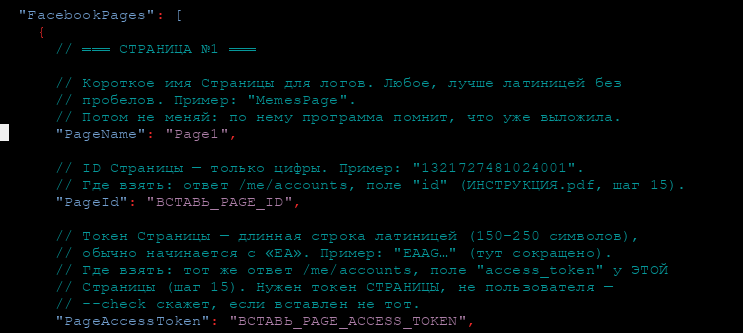
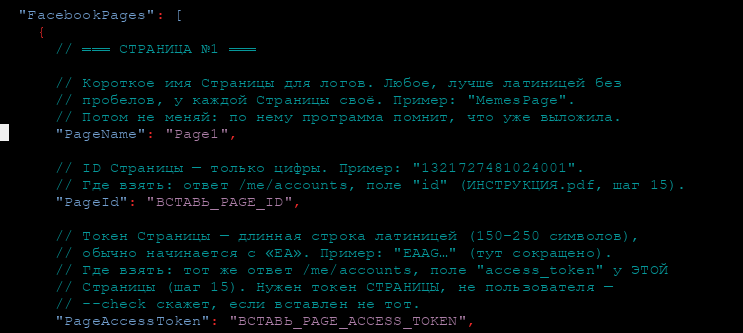
Несколько Страниц: одинаковое имя — ошибка, --check без авторов-примеров
Сценарий из шаблона — заполнена только первая Страница, вторая с
заглушками, дальше блоки копируются — проверен вживую. Две шероховатости:
- скопированный блок с тем же PageName молча делил бы с оригиналом суточный
  счётчик и историю; теперь программа останавливается с понятной ошибкой;
- --check проверял и ники-примеры из незаполненной второй Страницы; теперь
  только авторов Страниц, которые будут публиковать.
В шаблоне подсказано, что менять в копии блока; снимки для PDF пересобраны.

Claude-Session: https://claude.ai/code/session_01FnRtQCAVorSgYPbzA53L1c

Changed region(s): [[0.2167, 0.2703, 0.4953, 0.3303], [0.6191, 0.2703, 0.7429, 0.3303], [0.5262, 0.2703, 0.6191, 0.3303]]

diff --git a/Program.cs b/Program.cs
@@ -49,6 +49,24 @@ namespace FacebookReelsPublisher
             // как «аккаунта нет» — то есть как чужая поломка.
             NormalizeTikTokUsernames(pages);
 
+            // Имя Страницы — ключ её истории и суточного счётчика. Две рабочие
+            // Страницы с одним именем (обычная ошибка при копировании блока в
+            // appsettings.json) делили бы лимит на двоих, а общего автора
+            // публиковала бы только первая — и ничто в логе на это не указало бы.
+            // Проверка стоит до --check, чтобы он первым о ней и сказал.
+            var duplicate = pages
+                .Where(p => p.NotReadyReason == null)
+                .GroupBy(p => p.PageName.Trim(), StringComparer.OrdinalIgnoreCase)
+                .FirstOrDefault(g => g.Count() > 1);
+            if (duplicate != null)
+            {
+                AnsiConsole.MarkupLine($"[red]❌ В appsettings.json у двух Страниц одинаковое имя PageName: «{Esc(duplicate.Key)}».[/]");
+                AnsiConsole.MarkupLine("[yellow]   У каждой Страницы должно быть своё имя — по нему программа помнит, что уже выложила.\n" +
+                                       "   Поменяй его в скопированном блоке и пересобери: docker compose up -d --build[/]");
+                Environment.ExitCode = 1;
+                return;
+            }
+
             var server = new ServerSettings();
             config.GetSection("Server").Bind(server);
 
@@ -274,12 +292,26 @@ namespace FacebookReelsPublisher
             AnsiConsole.Write(fbTable);
 
             // ── TikTok ───────────────────────────────────────────────────────
+            // Авторов выключенных Страниц не проверяем: в шаблоне у второй
+            // Страницы стоят ники-примеры, и заполнивший только первую видел бы
+            // в таблице чужие ники. Не готова ни одна Страница — проверяем
+            // всех, чтобы ленты можно было проверить ещё до токенов.
+            var ready = pages.Where(p => p.NotReadyReason == null).ToList();
+            var skipped = ready.Count > 0 && names.Length == 0
+                ? pages.Where(p => p.NotReadyReason != null && p.TikTokUsernames.Count > 0).ToList()
+                : new List<FacebookPageSettings>();
+
             var targets = (names.Length > 0
                     ? names.Select(TikTokMonitorService.NormalizeUsername)
-                    : pages.SelectMany(p => p.TikTokUsernames))
+                    : (ready.Count > 0 ? ready : pages).SelectMany(p => p.TikTokUsernames))
                 .Where(n => n.Length > 0)
                 .Distinct(StringComparer.OrdinalIgnoreCase)
                 .ToList();
+
+            if (skipped.Count > 0)
+            {
+                AnsiConsole.MarkupLine($"\n[grey]Авторов выключенных Страниц не проверяем: {Esc(string.Join(", ", skipped.Select(p => p.PageName)))}[/]");
+            }
 
             if (targets.Count == 0)
             {

diff --git a/CLAUDE.md b/CLAUDE.md
@@ -208,7 +208,18 @@ preset medium таймаут 180 с всё ещё задевает. За 19–25
 первая, с заглушками. Теперь `FacebookPageSettings.NotReadyReason`: пусто или
 начинается с «ВСТАВЬ» (в `PageAccessToken` или `PageId`) — Страница пропускается
 с серым «не вставлен токен…». Не проверять токен на `IsNullOrEmpty` в обход этого
-свойства — вернётся ошибка авторизации каждые пять минут.
+свойства — вернётся ошибка авторизации каждые пять минут. `--check` не
+проверяет авторов выключенных Страниц (в шаблоне у второй — ники-примеры),
+если готова хоть одна.
+
+### Одинаковый `PageName` у двух Страниц
+
+Имя Страницы — ключ истории (`ИмяСтраницы:автор`) и суточного счётчика.
+Скопировал блок и не сменил имя — две Страницы делили бы лимит, а общего
+автора публиковала бы только первая, молча. С 25.09.2026 программа при
+старте (и в `--check`) останавливается с ошибкой, если у двух ГОТОВЫХ Страниц
+одно имя (без учёта регистра). Проверено вживую: 1-я заполнена, 2-я с
+заглушками, 3-я скопирована — круг проходит, 2-я пропускается.
 
 ### Первый запуск молчит
 
